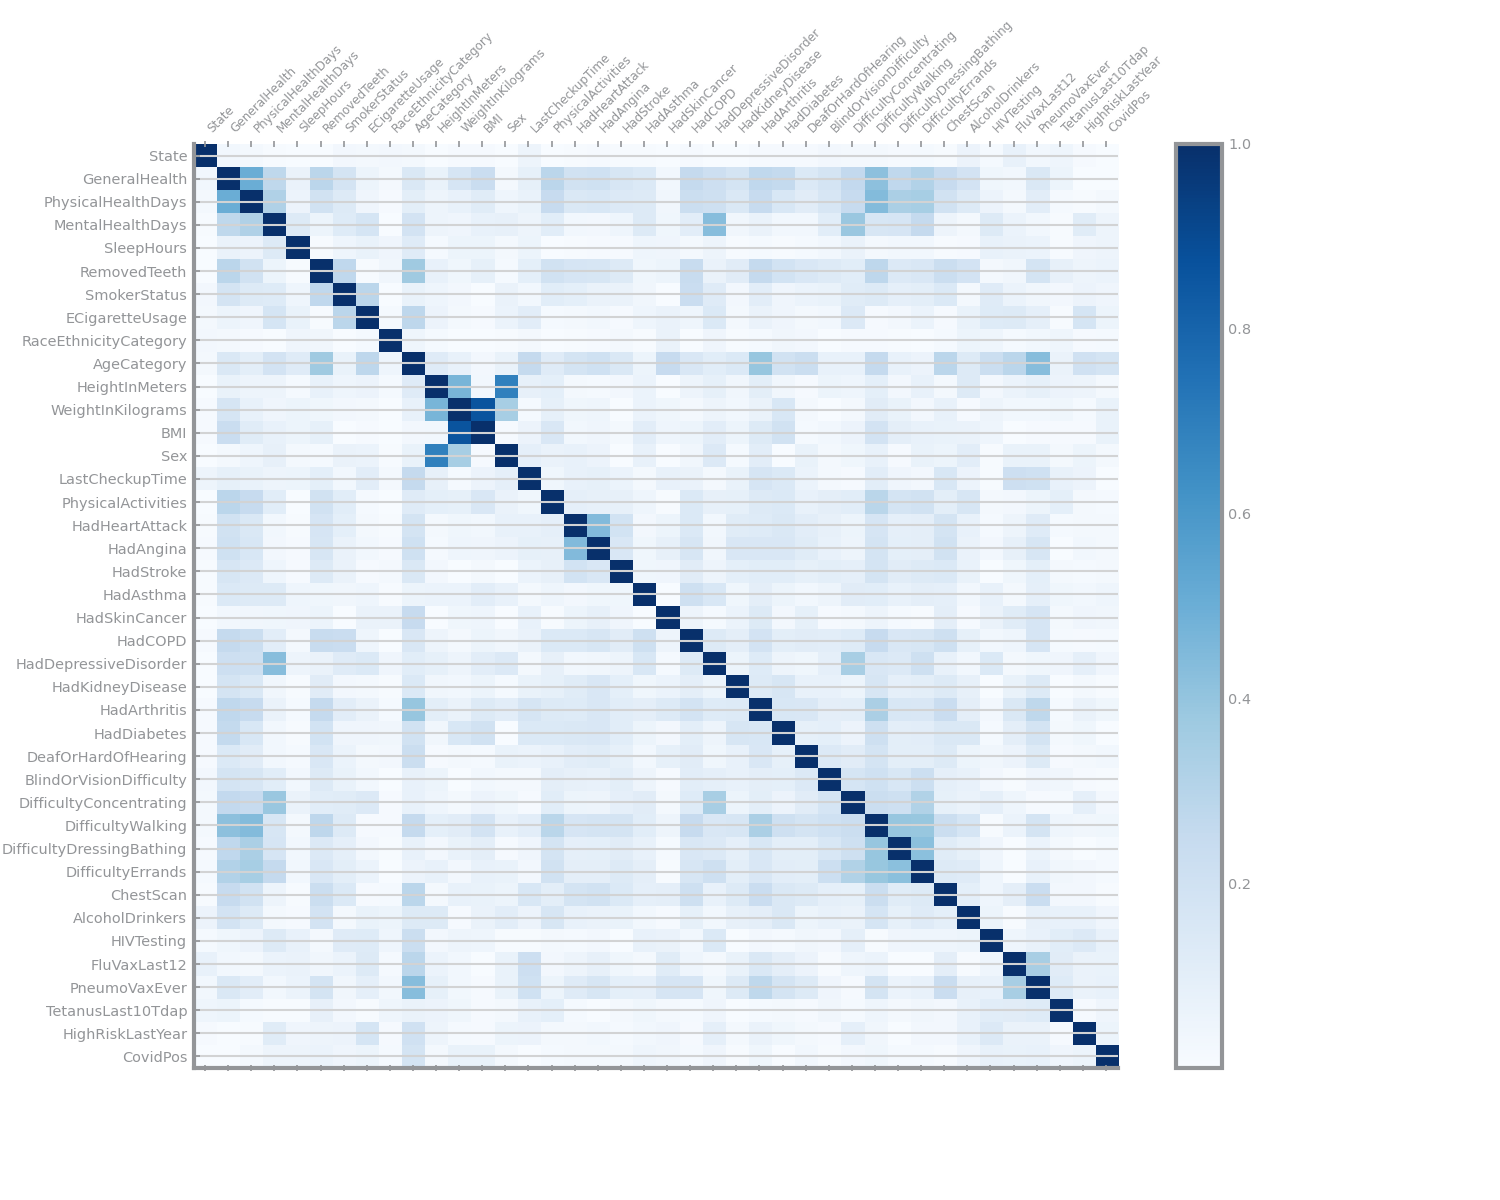
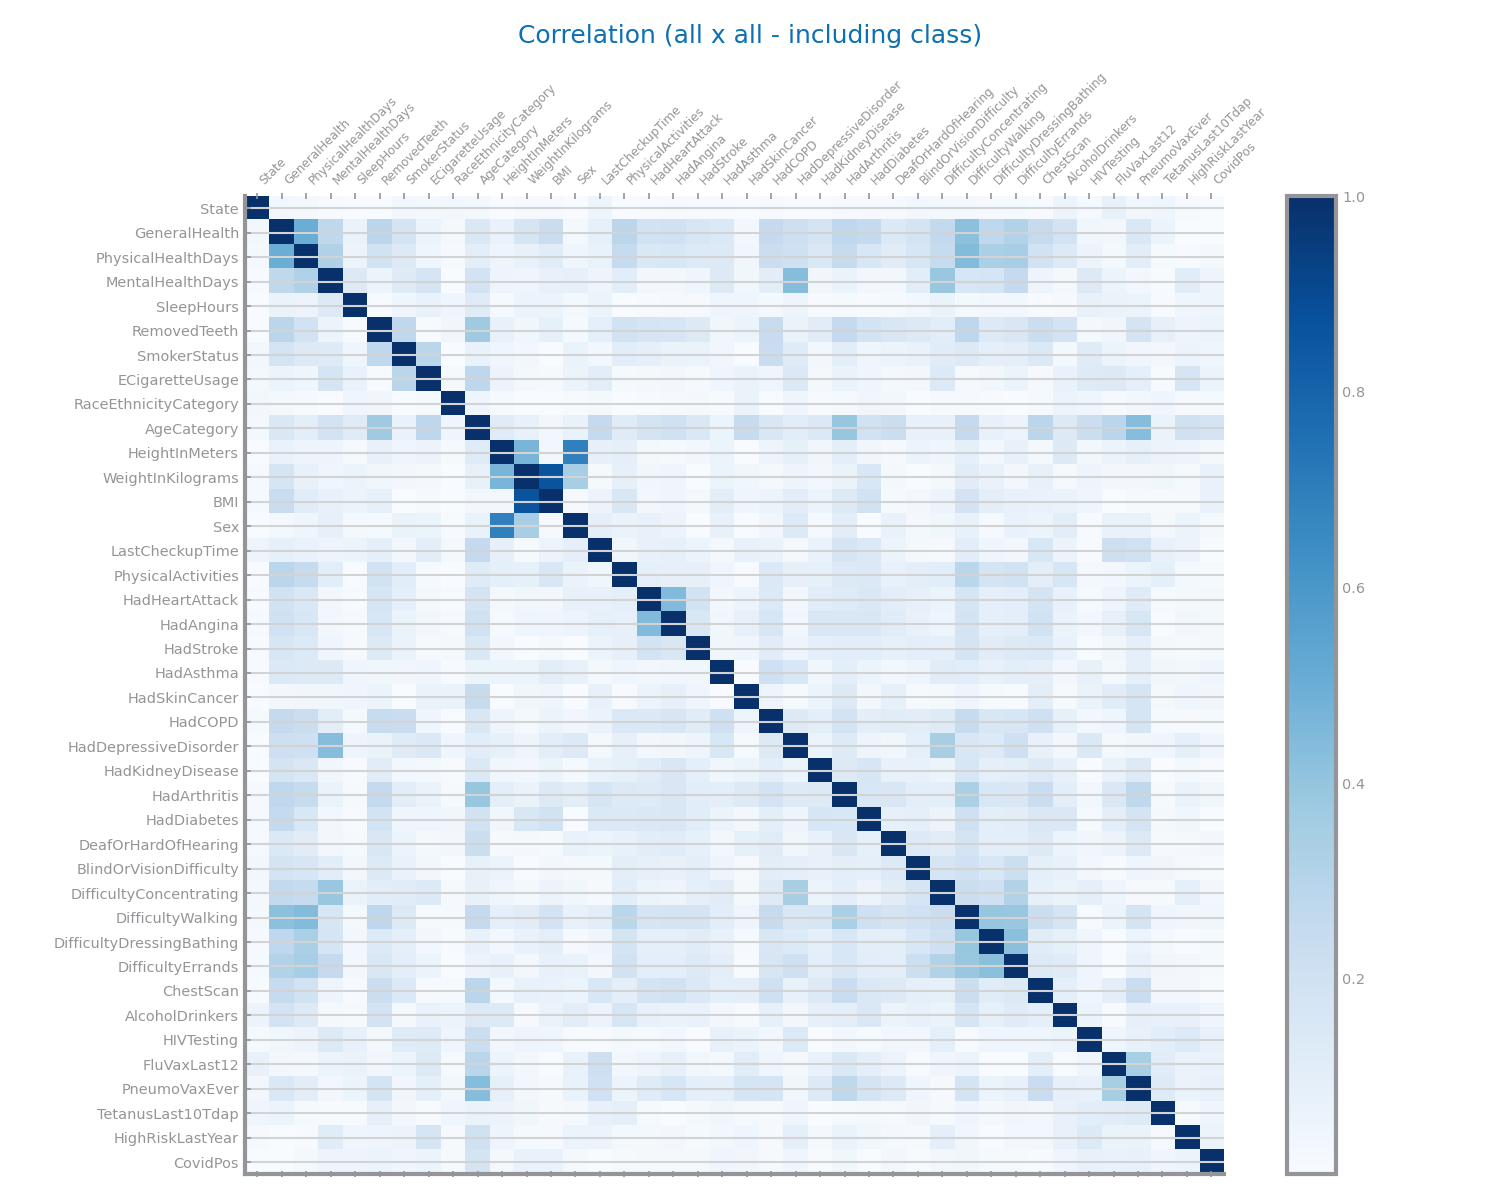
Updated correlation images

Changed region(s): [[0.0, 0.0, 0.828, 0.9867], [0.8587, 0.1542, 0.92, 0.925], [0.8587, 0.9558, 0.8893, 0.9867]]

diff --git a/dataset_1/1-data_profiling/code/4.2-correlation.py b/dataset_1/1-data_profiling/code/4.2-correlation.py
@@ -14,10 +14,11 @@ corr_mtx: DataFrame = data[numeric+binary].corr().abs()
 
 # Create a heatmap using matplotlib
 fig, ax = plt.subplots(figsize=(10, 8))
+fig.suptitle(f"Correlation (all x all - including class)")
 cax = ax.matshow(abs(corr_mtx), cmap='Blues')
 plt.xticks(range(len(numeric)+len(binary)), numeric+binary, rotation=45, ha='left')
 plt.yticks(range(len(numeric)+len(binary)), numeric+binary)
 plt.colorbar(cax)
-
+plt.tight_layout()
 plt.savefig(f"../images/{file_tag}_correlation_analysis.png")
 plt.show()
